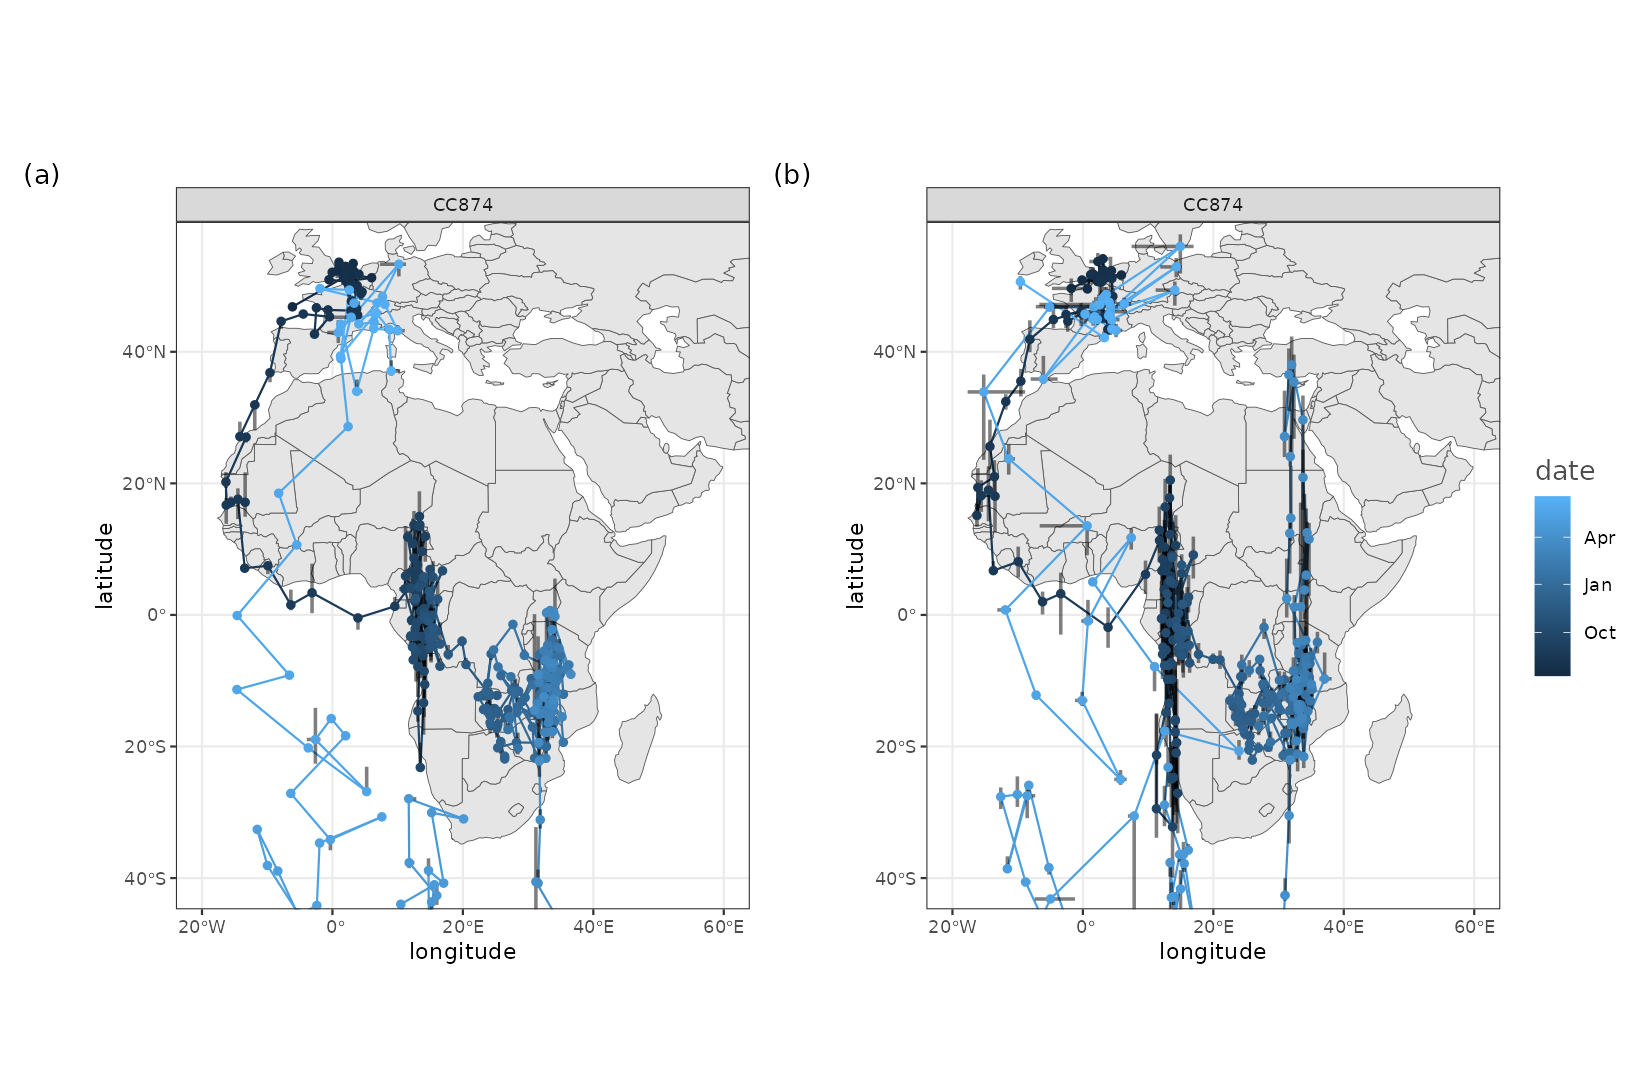
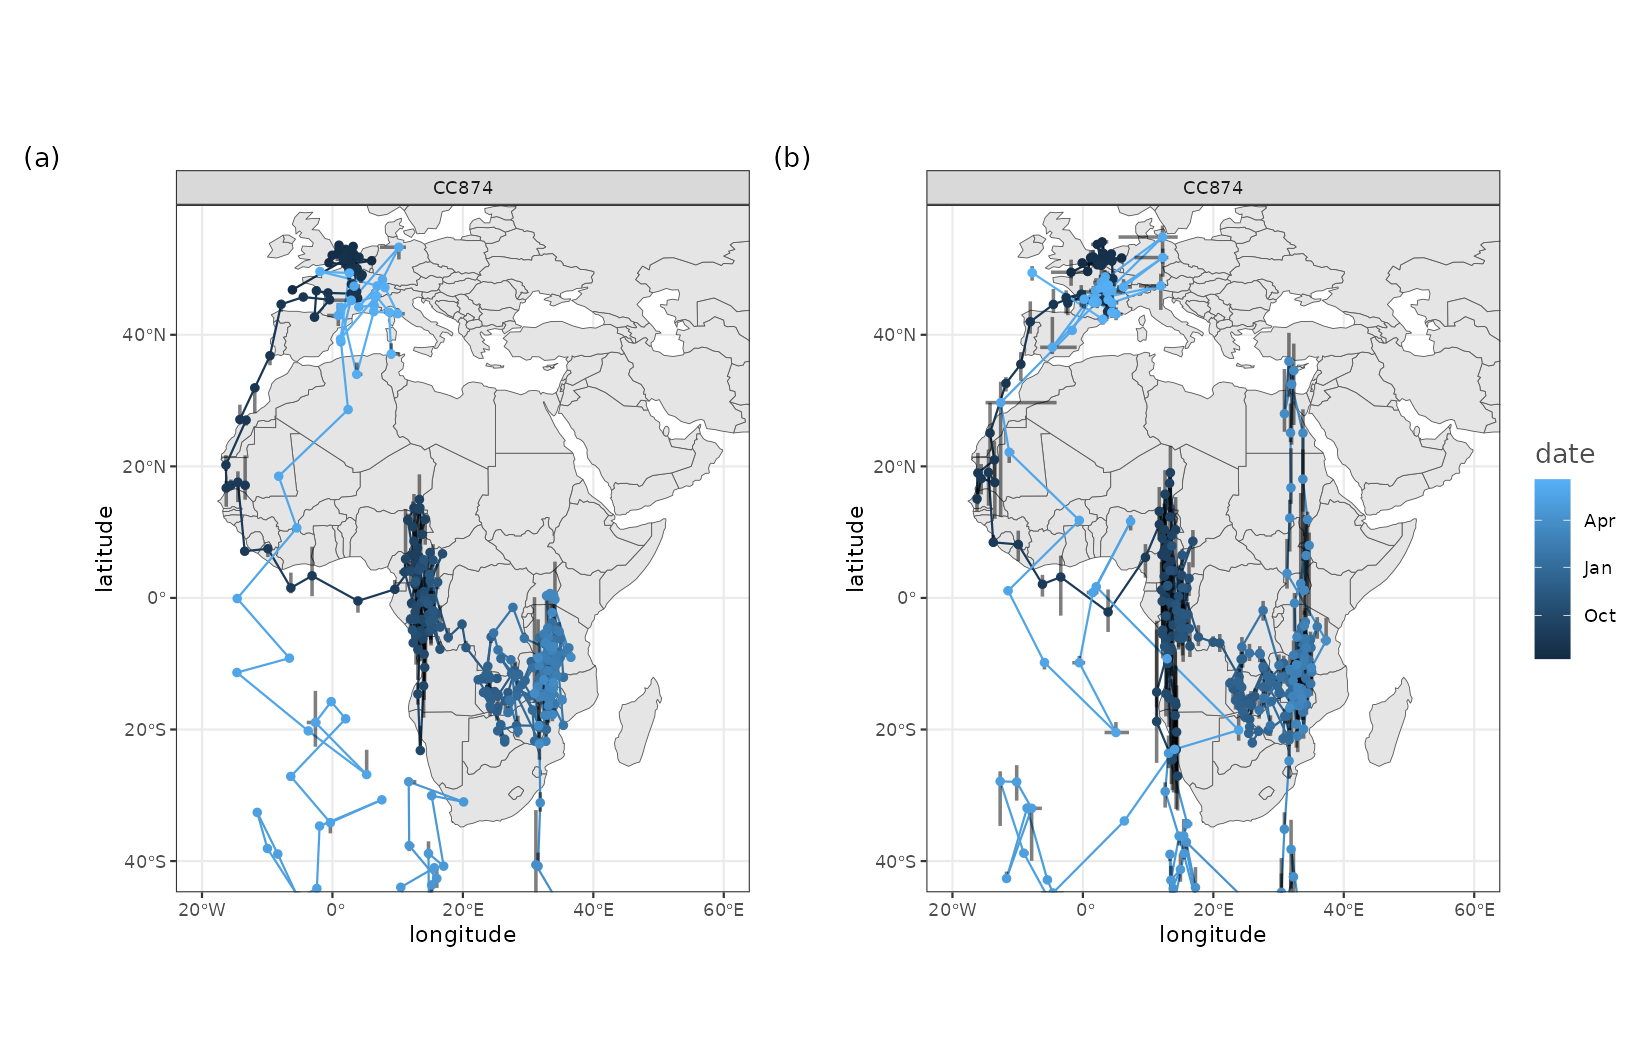
extra info

diff --git a/README.md b/README.md
@@ -44,6 +44,10 @@ library("skytrackr")
 
 To demonstrate the functioning of the package a small demo dataset comprised of a single day of light logging of a Common swift near a nest box in Ghent, Belgium was included (i.e. tag cc874). I will use this data to demonstrate the features of the package. Note that when multiple dates are present all dates will be considered. The package is friendly to the use of R piped (|>) commands. Using all default settings you can just pipe the data in to the `skytrackr()` function. The returned object will be a data frame containing the best estimate (median) of the longitude and latitude as well as 5-95% quantile as sampled from the posterior parameter distribution.
 
+## Default Sequential Monte Carlo optimization
+
+The underlying BayesianTools package used in optimization allows for the specification of other optimization techniques including Sequential Monte Carlo (SMC) methods, which in effect are particle filters (considering multiple priors during optimization). This method is considerably faster than the default DEzs method while fostering better accuracy during equinox periods. This is the default, but care should be taken to specify the start location and tolerance (maximum degrees covered in a single flight).
+
 ```r
 # normally you would first read in the .lux or .glf file using
 # cc874 <- stk_read_lux("cc874.lux")
@@ -53,28 +57,31 @@ print(head(skytrackr::cc874))
 
 # skytrackr allows for piped data input
 location <- cc874 |>
-  skytrackr::skytrackr()
+  skytrackr::skytrackr(
+      start_location = c(51.08, 3.73),
+      tolerance = 11,
+  )
 ```
 
-## Advanced model settings
+## MCMC DEzs optimization
 
-The underlying BayesianTools package used in optimization allows for the specification of other optimization techniques including Sequential Monte Carlo methods, which in effect are particle filters (considering multiple priors during optimization). This method is considerably faster than the default DEzs method while fostering better accuracy during equinox periods.
+Changing the control parameters allows for switching to a MCMC DEzs methodology.
 
 ```r
 data |>
     skytrackr(
       start_location = c(51.08, 3.73),
-      tolerance = 13,
+      tolerance = 11,
       bbox = c(-20, -40, 60, 60),
       control = list(
-        sampler = 'SMC',
-        settings = list(
-          initialParticles = 100,
-          iterations= 10,
-          message = FALSE
+          sampler = 'DEzs',
+          settings = list(
+              burnin = 2000,
+              iterations = 10000,
+              message = FALSE
           )
-      ),
-      plot = TRUE
+        ),
+      plot = FALSE
     )
 ```
 
